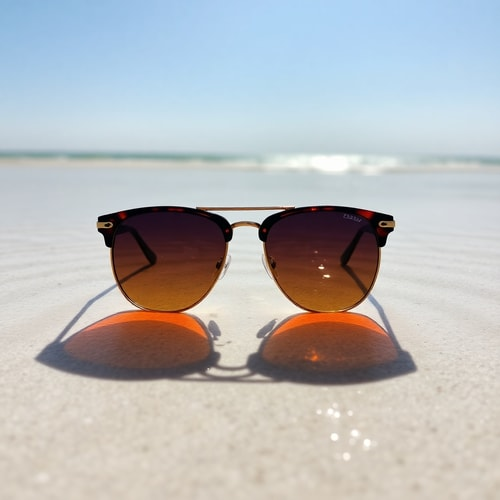
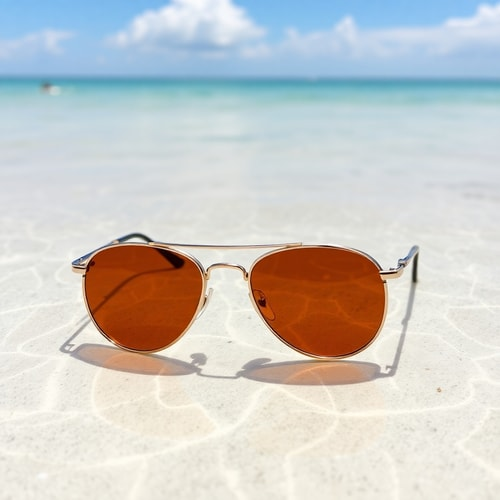
feat: bloqueado agente ollama redactor de momento, #21

diff --git a/app/llm/editorial_graph.py b/app/llm/editorial_graph.py
@@ -2,6 +2,7 @@ import operator
 from typing import TypedDict, Annotated, List
 from langchain_core.messages import HumanMessage, SystemMessage
 from langchain_groq import ChatGroq
+from langchain_ollama import ChatOllama
 from langgraph.graph import StateGraph, END
 from utils.utils import get_groq_api_key  # Asegúrate de que esta importación apunte correctamente a tu utils
 
@@ -38,6 +39,22 @@ def agente_redactor(state: AgentState):
         #model_name="llama-3.3-70b-versatile"
         model_name=modelo_elegido
     )
+
+    # # ✅ Aquí está el cambio clave: ramificamos el LLM según el modelo
+    # if modelo_elegido == "llama3.2:1b":
+    #     llm = ChatOllama(
+    #         model="llama3.2:1b",       # nombre exacto tal como aparece en `ollama list`
+    #         temperature=temp,
+    #         num_predict=max_t,         # en Ollama, max_tokens se llama num_predict
+    #         base_url="http://localhost:11434",  # explícito, aunque es el valor por defecto
+    #     )
+    # else:
+    #     llm = ChatGroq(
+    #         temperature=temp,
+    #         max_tokens=max_t,
+    #         groq_api_key=get_groq_api_key(),
+    #         model_name=modelo_elegido
+    #     )
     
     # Guías de estilo personalizadas para forzar la diferenciación de plataformas
     guia_estilo = {